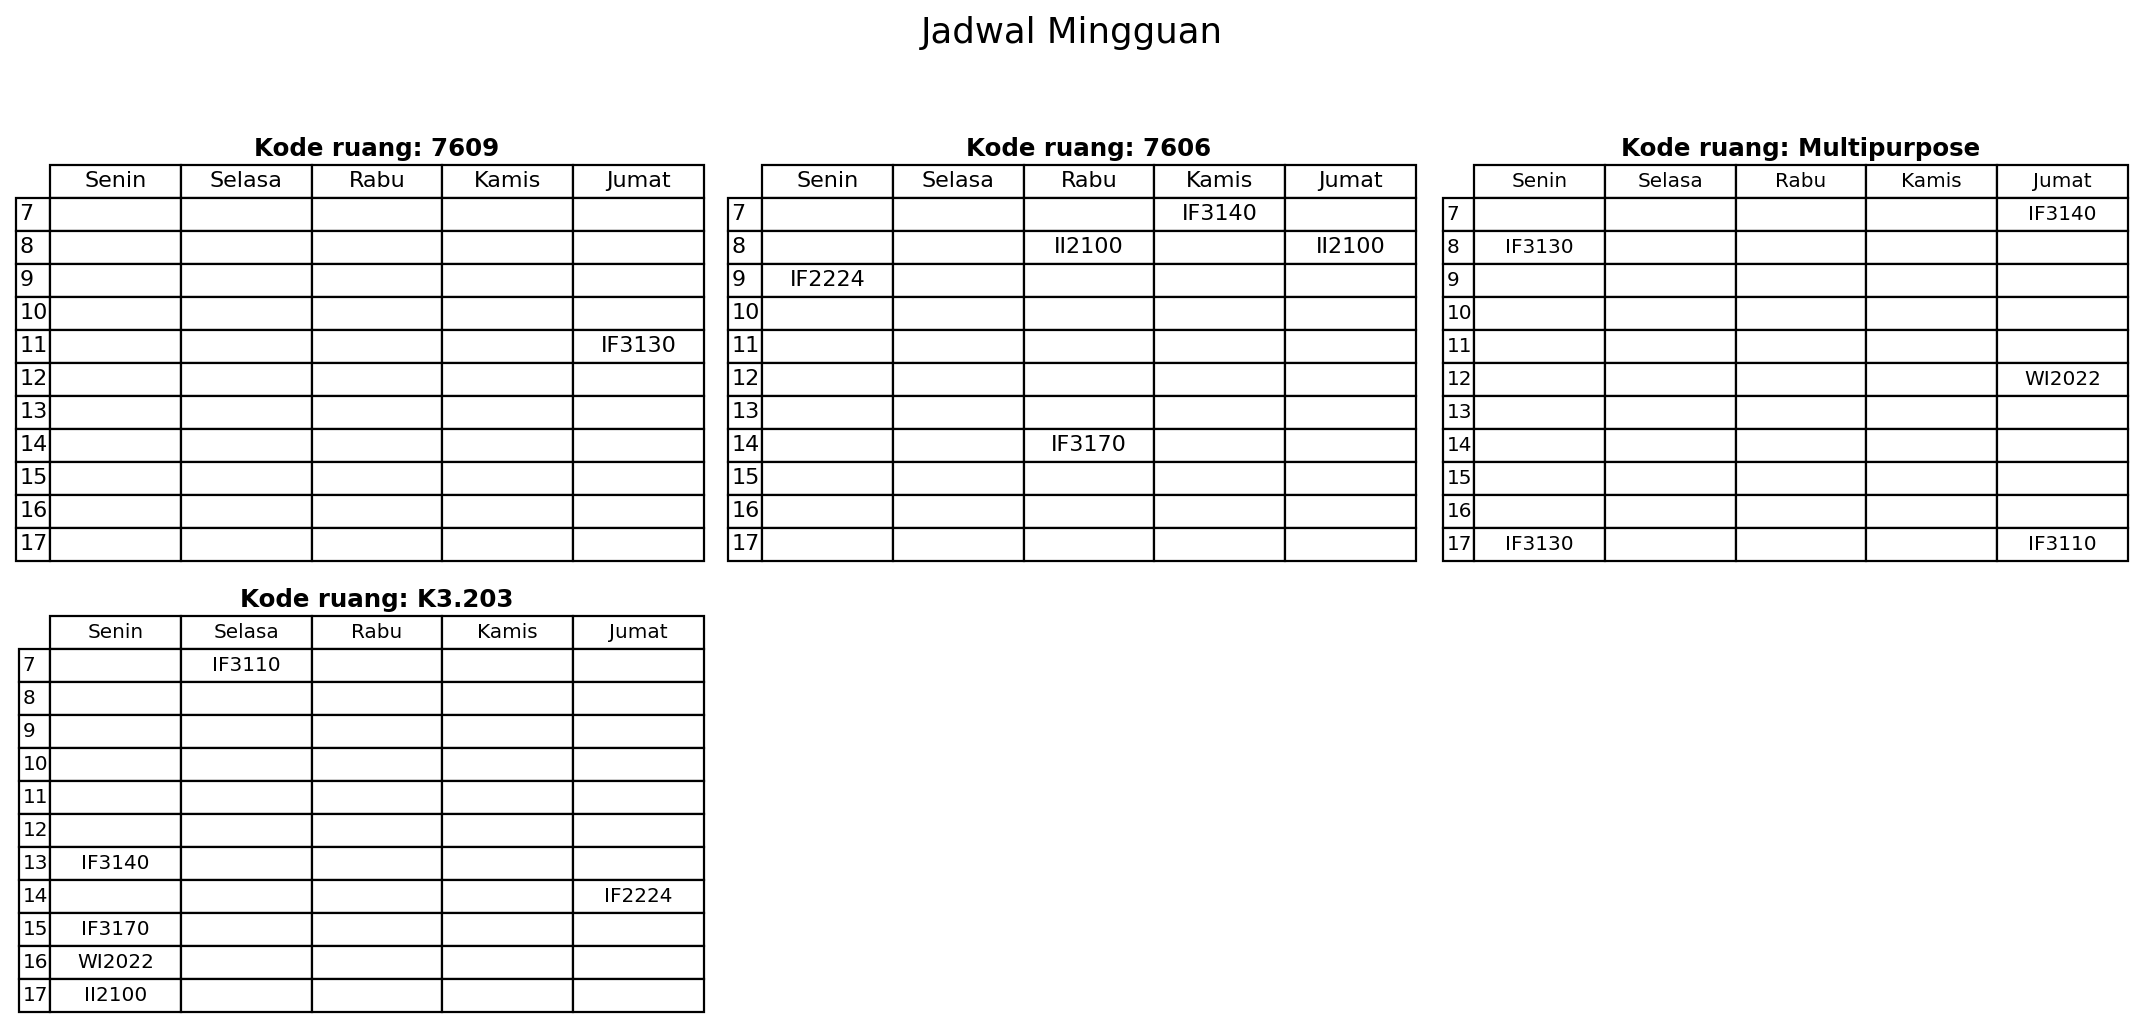
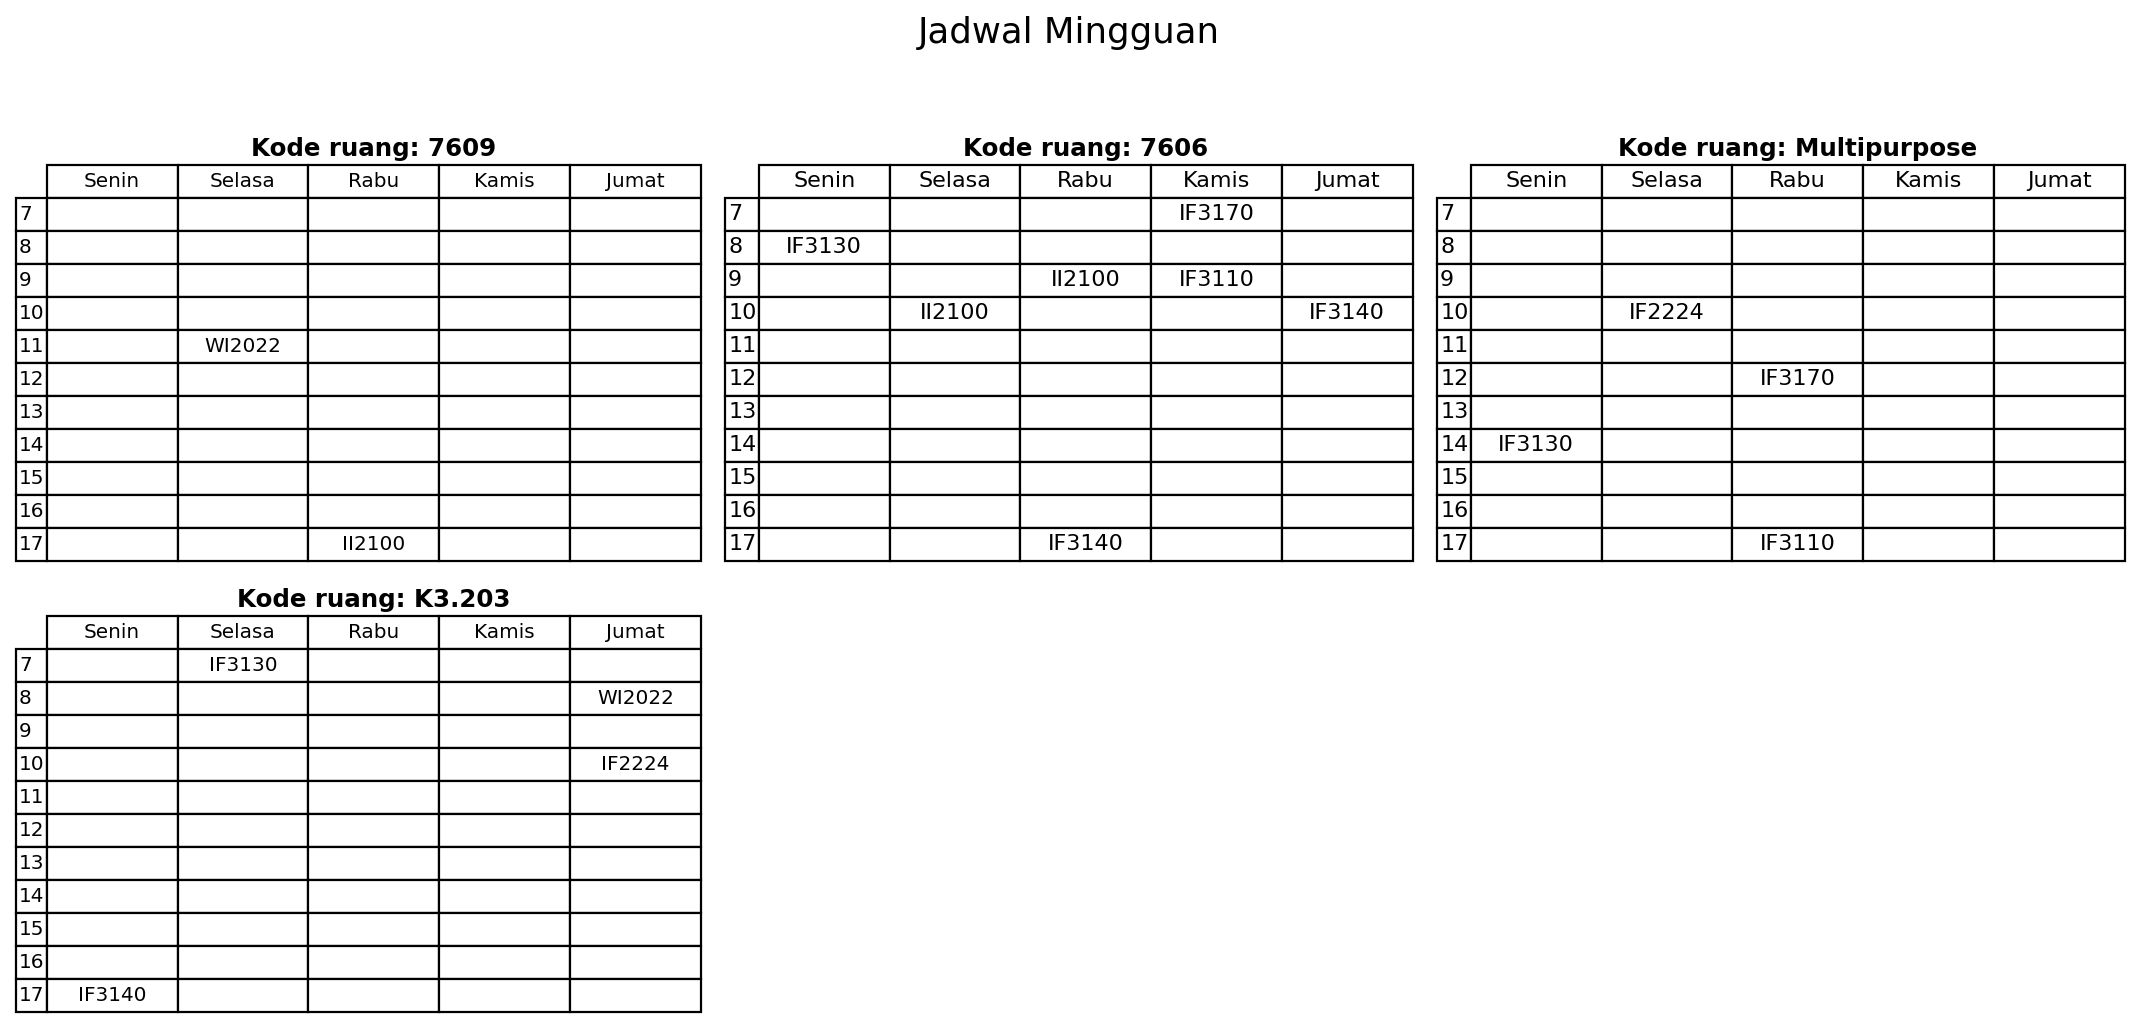
feat: debug hill climbing

diff --git a/src/algorithm/hill_climbing.py b/src/algorithm/hill_climbing.py
@@ -72,7 +72,7 @@ def hill_climbing_steepest(state, data, slots, max_iter=1000):
         scored_neighbors.sort(key=lambda x: x[0])
 
         best_score, best_neighbor = scored_neighbors[0]
-        print(f"Step {step+1}: Nilai fungsi objektif awal = {current_score}")
+        print(f"Step {step+1}: Nilai fungsi objektif awal = {current_score}, akhir = {best_score}")
 
         if best_score <= 0:
             print("[DONE] Solusi optimal ditemukan")
